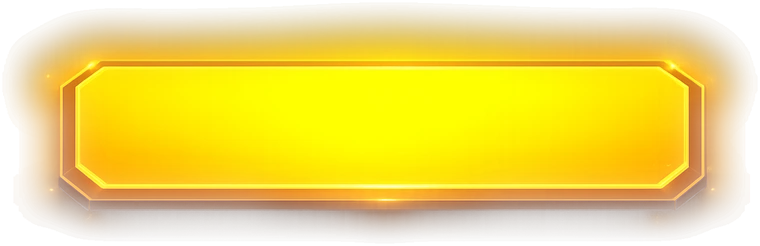
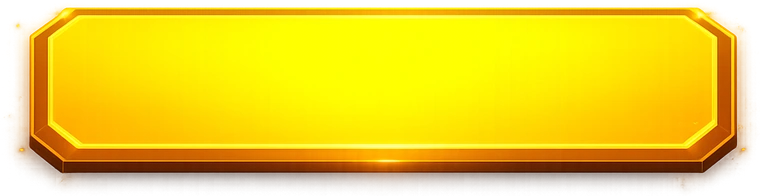
v1.53.1: knop is nu gewoon de PNG, zonder zelfgemaakte gloed eromheen
De bron-PNG had al een alfakanaal. Mijn viewer toonde hem op grijs, ik
dacht dat het grijs in het bestand zat, en ging er met een kleurmasker een
uitsnede uit halen. Dat masker maakte de wazige vorm achter de knop die er
nooit hoorde te zijn. De asset is nu de PNG bijgesneden op zijn zichtbare
pixels, verder niets, en de knop neemt de verhouding van de plaat over zodat
er ook nergens wordt uitgerekt.

Les voor de volgende keer: open zo'n bestand als RGBA en kijk naar het
alfakanaal voordat je iets weg gaat knippen.

diff --git a/frontend/src/components/GoldButton.tsx b/frontend/src/components/GoldButton.tsx
@@ -1,20 +1,22 @@
 // De gouden actieknop uit de studio-art, precies zoals hij in het bestand staat.
 //
-// De plaat wordt NIET uitgerekt: de knop neemt de verhouding van de plaat over
-// en de afbeelding ligt er onvervormd overheen, op ware hoogte-breedte. De
-// gloed die in het bestand om de plaat heen zit steekt buiten de knop uit; dat
-// moet ook, anders zou je hem wegknippen.
+// De bron-PNG heeft ZELF al een alfakanaal; de asset is dus niets meer dan die
+// PNG bijgesneden op zijn zichtbare pixels. (Eerder haalde ik er met een
+// kleurmasker een uitsnede uit, omdat een viewer het bestand op grijs toonde en
+// ik dacht dat het grijs erin zat. Dat masker maakte juist de wazige vorm die
+// er niet hoorde te zijn. Open zo'n bestand altijd als RGBA en kijk naar het
+// alfakanaal voordat je iets weg gaat knippen.)
 //
-// De drie getallen hieronder zijn uit de asset zelf gemeten: hoe groot het
-// bestand is en welk deel daarvan de scherpe plaat beslaat. Vervang je de art,
-// meet dan opnieuw en pas alleen deze regels aan.
+// De plaat wordt NIET uitgerekt: de knop neemt de verhouding van de plaat over
+// en de afbeelding ligt er onvervormd overheen. De getallen hieronder zijn uit
+// de asset gemeten; vervang je de art, meet dan opnieuw.
 import { useState } from "react";
 import { colors, font } from "../theme/tokens";
 
 const ASSET_W = 760;
-const ASSET_H = 246;
-const PLATE_W = 0.8039;   // deel van de assetbreedte dat de plaat is
-const PLATE_H = 0.5325;   // idem in de hoogte
+const ASSET_H = 196;
+const PLATE_W = 0.9513;   // deel van de assetbreedte dat de plaat is
+const PLATE_H = 0.8418;   // idem in de hoogte
 
 const PLATE_RATIO = (ASSET_W * PLATE_W) / (ASSET_H * PLATE_H); // breedte/hoogte van de plaat
 const OVER_X = (1 / PLATE_W - 1) / 2;                          // gloedmarge links en rechts

diff --git a/frontend/public/sw.js b/frontend/public/sw.js
@@ -10,7 +10,7 @@
 //    briefly-stale shell can still boot from cache instead of going black.
 //  - Every activation purges ALL old caches (drops any poisoned shell).
 // Never touches the WebSocket or the API.
-const CACHE = "penneer-v15"; // v13: Duel-scherm erbij (nieuwe route + assets)
+const CACHE = "penneer-v16"; // v13: Duel-scherm erbij (nieuwe route + assets)
 
 self.addEventListener("install", () => {
   self.skipWaiting();

diff --git a/frontend/src/version.ts b/frontend/src/version.ts
@@ -1,2 +1,2 @@
 // Bump per user-facing release. Shown in Settings > About.
-export const APP_VERSION = "1.53.0";
+export const APP_VERSION = "1.53.1";
